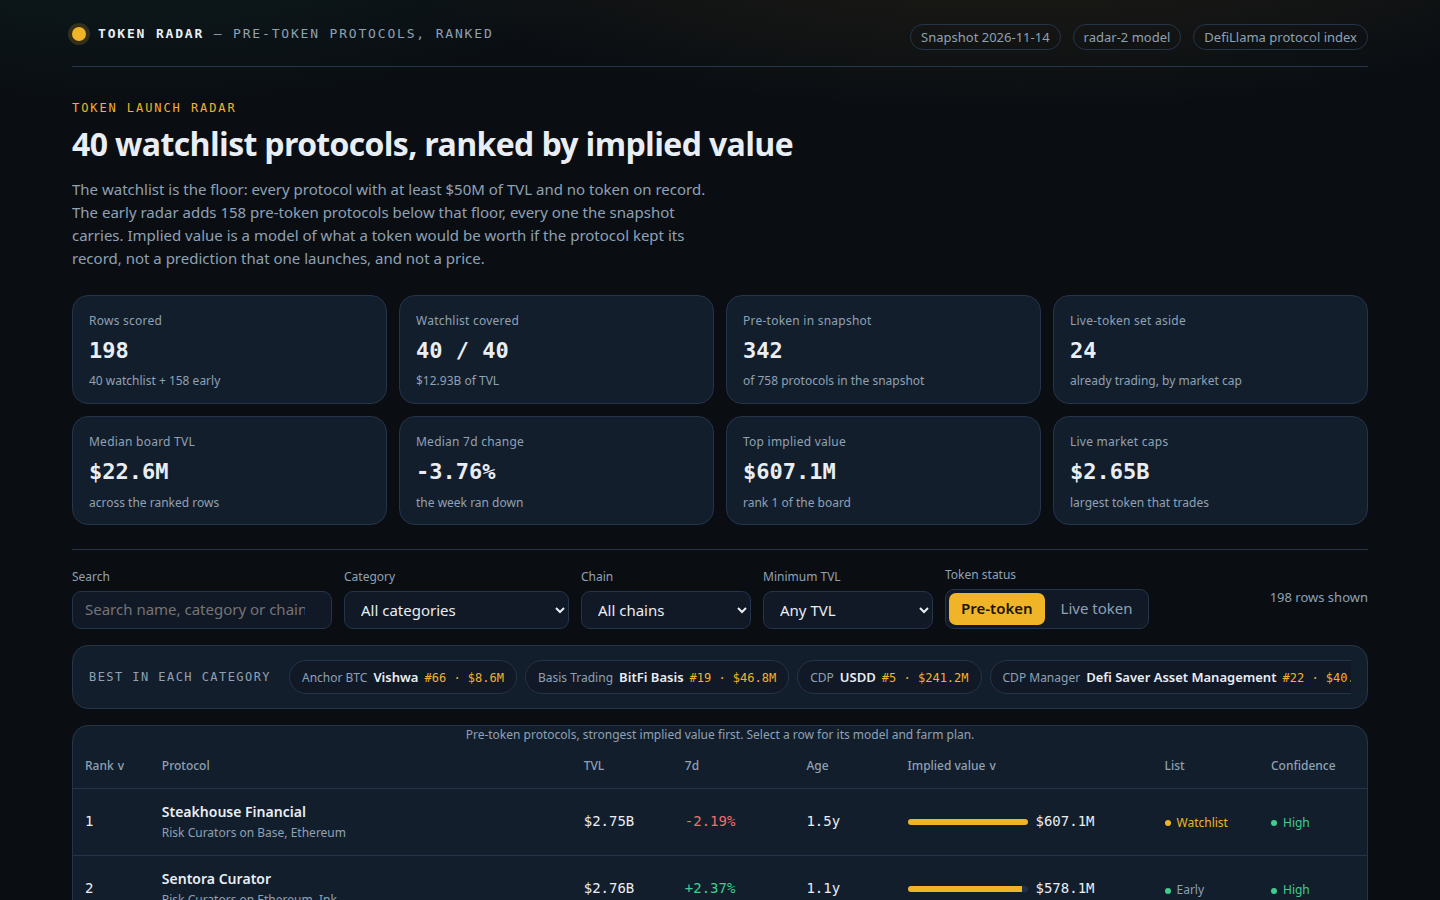
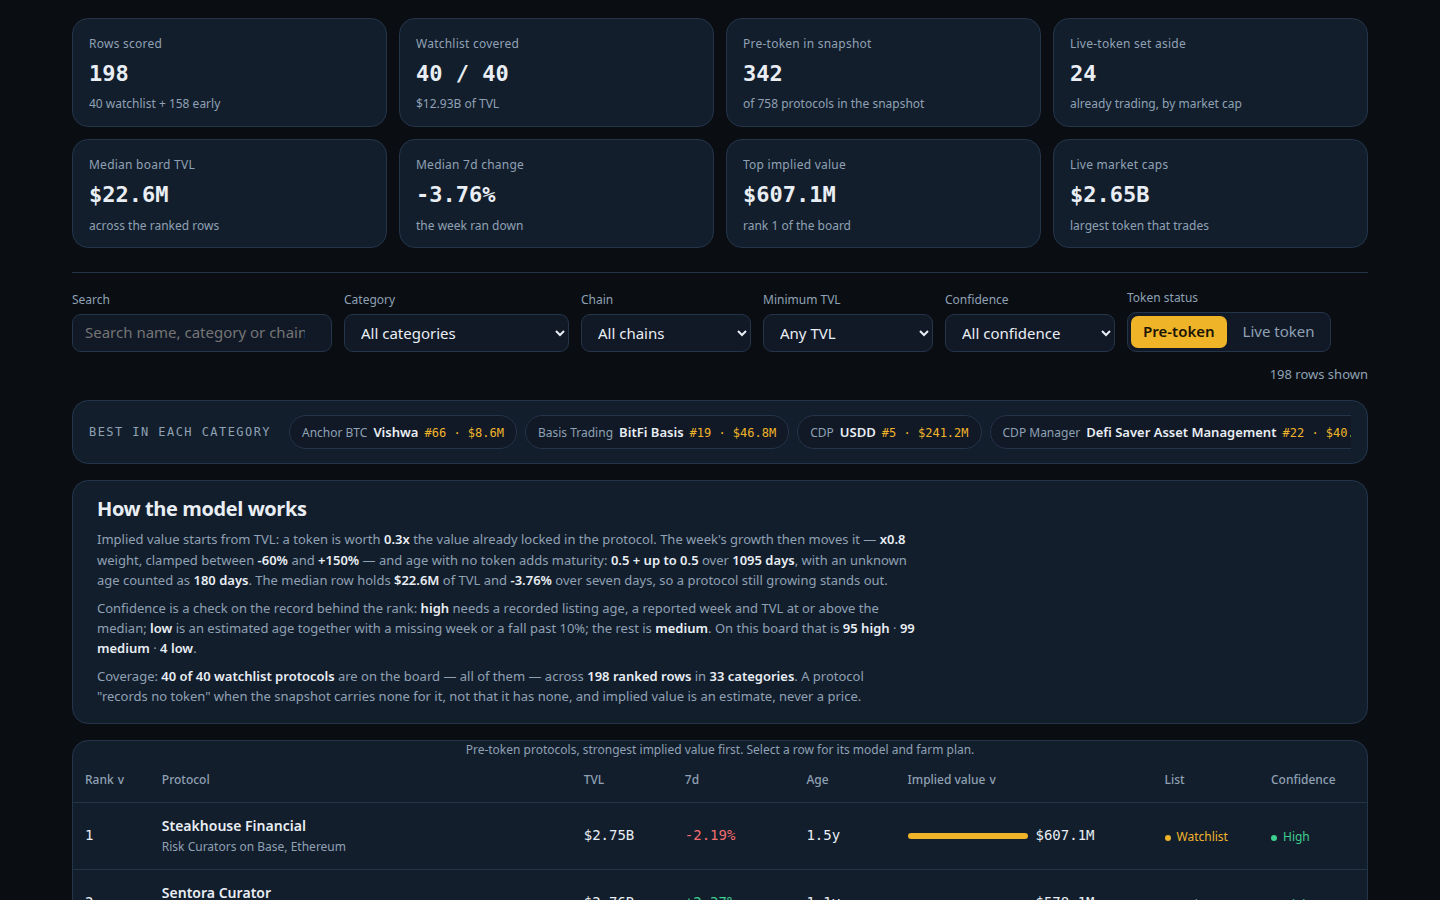
Round 4: methodology panel + plan totals + confidence filter/sort (dashboard-only, board unchanged)

diff --git a/dashboard/app.js b/dashboard/app.js
@@ -202,13 +202,55 @@ function farmSteps(p) {
   return steps.map(stepText);
 }
 
+/** One step's gas in dollars, read from the Cost: tail the drawer already renders:
+    "under $X" counts as X, "$X to $Y" as Y, "a few cents" as $0.05, "a few dollars"
+    as $3; a step with no gas figure (capital held, no fee to check) counts as $0. */
+function gasFigure(cost) {
+  var m = /under \$([\d.]+)/.exec(cost);
+  if (m) return Number(m[1]);
+  m = /\$([\d.]+) to \$([\d.]+)/.exec(cost);
+  if (m) return Number(m[2]);
+  if (/a few cents/.test(cost)) return 0.05;
+  if (/a few dollars/.test(cost)) return 3;
+  return 0;
+}
+function fmtGas(n) { return '$' + (n % 1 === 0 ? String(n) : n.toFixed(2)); }
+/** A plan's totals, parsed from its own step strings, so the drawer can summarise the
+    plan it already shows. One-off gas is the sum of the steps' gas figures; the weekly
+    action is kept apart because it recurs. Time is the hold step's whole-plan effort
+    ("about X hours of activity spread over Y days"), which already counts setup, the
+    weekly actions and the claim check, so the per-step minutes are not added on top. */
+function planTotals(steps) {
+  var gas = 0, weeklyGas = 0, hours = null, days = null;
+  steps.forEach(function (s) {
+    var at = s.indexOf(' Cost: ');
+    var rest = at >= 0 ? s.slice(at + 7) : '';
+    var tat = rest.indexOf(' Time: ');
+    var cost = tat >= 0 ? rest.slice(0, tat) : rest;
+    var time = tat >= 0 ? rest.slice(tat + 7).replace(/\.$/, '') : '';
+    var g = gasFigure(cost);
+    if (/each weekly action/.test(cost)) weeklyGas += g;
+    else gas += g;
+    var hm = /about ([\d.]+) hours? of activity spread over (\d+) days/.exec(time);
+    if (hm) { hours = Number(hm[1]); days = Number(hm[2]); }
+  });
+  return { gas: gas, weeklyGas: weeklyGas, hours: hours, days: days };
+}
+function planTotalText(steps) {
+  var t = planTotals(steps);
+  var out = 'Plan total: about ' + fmtGas(t.gas) + ' in gas';
+  if (t.hours !== null) out += ' · about ' + t.hours + ' hour' + (t.hours === 1 ? '' : 's') + ' of activity' + (t.days !== null ? ' over ' + t.days + ' days' : '');
+  if (t.weeklyGas > 0) out += ' · then ' + fmtGas(t.weeklyGas) + ' per weekly action';
+  return out + '.';
+}
+
 (function () {
   'use strict';
   var DATA = (typeof window !== 'undefined' && window.RADAR) || null;
   if (!DATA || typeof document === 'undefined') return;
   var app = document.getElementById('board');
   if (!app) return;
-  var state = { q: '', category: 'all', chain: 'all', minTvl: 0, tab: 'pre-token', sort: 'implied', dir: -1, selected: null, kbIndex: -1 };
+  var state = { q: '', category: 'all', chain: 'all', minTvl: 0, confidence: 'all', tab: 'pre-token', sort: 'implied', dir: -1, selected: null, kbIndex: -1 };
 
   function el(tag, attrs) {
     var node = document.createElement(tag);
@@ -239,6 +281,7 @@ function farmSteps(p) {
     if (params.get('category')) state.category = params.get('category');
     if (params.get('chain')) state.chain = params.get('chain');
     if (params.get('mintvl')) state.minTvl = Number(params.get('mintvl')) || 0;
+    if (params.get('conf')) state.confidence = params.get('conf');
     if (params.get('tab')) state.tab = params.get('tab');
     if (params.get('p')) state.selected = params.get('p');
   }
@@ -248,6 +291,7 @@ function farmSteps(p) {
     if (state.category !== 'all') params.set('category', state.category);
     if (state.chain !== 'all') params.set('chain', state.chain);
     if (state.minTvl) params.set('mintvl', String(state.minTvl));
+    if (state.confidence !== 'all') params.set('conf', state.confidence);
     if (state.tab !== 'pre-token') params.set('tab', state.tab);
     if (state.selected) params.set('p', state.selected);
     var next = params.toString();
@@ -261,6 +305,7 @@ function farmSteps(p) {
       if (state.category !== 'all' && (r.category || 'Other') !== state.category) return false;
       if (state.chain !== 'all' && (r.chains || []).indexOf(state.chain) < 0) return false;
       if (state.minTvl && r.tvl_usd < state.minTvl) return false;
+      if (state.confidence !== 'all' && confidenceOf(r, DATA.median_tvl_usd) !== state.confidence) return false;
       if (!q) return true;
       var hay = [r.name, r.slug, r.category, (r.chains || []).join(' ')].join(' ').toLowerCase();
       return hay.indexOf(q) >= 0;
@@ -274,6 +319,7 @@ function farmSteps(p) {
       else if (key === 'tvl') { av = a.tvl_usd; bv = b.tvl_usd; }
       else if (key === 'growth') { av = a.change_7d === null ? -Infinity : a.change_7d; bv = b.change_7d === null ? -Infinity : b.change_7d; }
       else if (key === 'age') { av = a.age_days === null ? Infinity : a.age_days; bv = b.age_days === null ? Infinity : b.age_days; }
+      else if (key === 'confidence') { var confRank = { high: 3, medium: 2, low: 1 }; av = confRank[confidenceOf(a, DATA.median_tvl_usd)] || 0; bv = confRank[confidenceOf(b, DATA.median_tvl_usd)] || 0; }
       else { av = a.implied_value_usd; bv = b.implied_value_usd; }
       if (av < bv) return -state.dir;
       if (av > bv) return state.dir;
@@ -343,6 +389,13 @@ function farmSteps(p) {
       tvlOptions.map(function (o) { return el('option', { value: String(o[0]), text: o[1], selected: o[0] === state.minTvl ? 'selected' : null }); })
     );
     mintvl.addEventListener('change', function () { state.minTvl = Number(mintvl.value) || 0; writeHash(); render(); });
+    var confCounts = { high: 0, medium: 0, low: 0 };
+    DATA.rows.forEach(function (r) { confCounts[confidenceOf(r, DATA.median_tvl_usd)] += 1; });
+    var confOptions = [['all', 'All confidence'], ['high', 'High (' + confCounts.high + ')'], ['medium', 'Medium (' + confCounts.medium + ')'], ['low', 'Low (' + confCounts.low + ')']];
+    var conf = el('select', { id: 'confidence', 'aria-label': 'Filter by confidence' },
+      confOptions.map(function (o) { return el('option', { value: o[0], text: o[1], selected: o[0] === state.confidence ? 'selected' : null }); })
+    );
+    conf.addEventListener('change', function () { state.confidence = conf.value; writeHash(); render(); });
     var pre = el('button', { type: 'button', 'aria-pressed': state.tab === 'pre-token' ? 'true' : 'false', text: 'Pre-token', onclick: function () { state.tab = 'pre-token'; render(); } });
     var live = el('button', { type: 'button', 'aria-pressed': state.tab === 'live' ? 'true' : 'false', text: 'Live token', onclick: function () { state.tab = 'live'; render(); } });
     return el('div', { class: 'controls' },
@@ -350,6 +403,7 @@ function farmSteps(p) {
       el('div', { class: 'field' }, el('label', { for: 'category', text: 'Category' }), cat),
       el('div', { class: 'field' }, el('label', { for: 'chain', text: 'Chain' }), chain),
       el('div', { class: 'field' }, el('label', { for: 'mintvl', text: 'Minimum TVL' }), mintvl),
+      el('div', { class: 'field' }, el('label', { for: 'confidence', text: 'Confidence' }), conf),
       el('div', { class: 'field' }, el('span', { class: 'sub', text: 'Token status' }), el('div', { class: 'tabs' }, pre, live)),
       el('span', { class: 'count', text: state.tab === 'pre-token' ? rows().length + ' rows shown' : DATA.live.length + ' live-token protocols' })
     );
@@ -371,7 +425,7 @@ function farmSteps(p) {
       return el('div', { class: 'panel' }, el('div', { class: 'empty' },
         el('h2', { text: 'No protocol matches that filter' }),
         el('p', { text: 'Clear the search or pick another category to see the board again.' }),
-        el('button', { class: 'button primary', type: 'button', text: 'Clear filters', onclick: function () { state.q = ''; state.category = 'all'; state.chain = 'all'; state.minTvl = 0; writeHash(); render(); } })
+        el('button', { class: 'button primary', type: 'button', text: 'Clear filters', onclick: function () { state.q = ''; state.category = 'all'; state.chain = 'all'; state.minTvl = 0; state.confidence = 'all'; writeHash(); render(); } })
       ));
     }
     var max = DATA.top_implied_usd || 1;
@@ -415,7 +469,7 @@ function farmSteps(p) {
             sortHeader('age', 'Age'),
             sortHeader('implied', 'Implied value'),
             el('th', { scope: 'col', text: 'List' }),
-            el('th', { scope: 'col', text: 'Confidence' })
+            sortHeader('confidence', 'Confidence')
           )),
           tbody
         )
@@ -470,6 +524,38 @@ function farmSteps(p) {
     );
   }
 
+  /** How the model works, in plain words and with the board's own numbers: the formula
+      the model panel below spells out, the confidence rule, and what the board covers.
+      Every figure here is computed from the loaded data when the page renders, so the
+      panel stays true if the snapshot changes. */
+  function methodPanel() {
+    var m = DATA.model;
+    var confCounts = { high: 0, medium: 0, low: 0 };
+    DATA.rows.forEach(function (r) { confCounts[confidenceOf(r, DATA.median_tvl_usd)] += 1; });
+    var watchlistPresent = DATA.rows.filter(function (r) { return r.watchlist; }).length;
+    var categories = Array.from(new Set(DATA.rows.map(function (r) { return r.category || 'Other'; }))).length;
+    return el('section', { class: 'panel method', 'aria-label': 'How the model works' },
+      el('h2', { text: 'How the model works' }),
+      el('p', null,
+        'Implied value starts from TVL: a token is worth ', el('b', { text: m.base_multiple + 'x' }), ' the value already locked in the protocol. ',
+        'The week\'s growth then moves it — ', el('b', { text: 'x' + m.growth_weight }), ' weight, clamped between ', el('b', { text: m.growth_floor + '%' }), ' and ', el('b', { text: '+' + m.growth_cap + '%' }), ' — ',
+        'and age with no token adds maturity: ', el('b', { text: m.maturity_floor + ' + up to ' + m.maturity_range }), ' over ', el('b', { text: m.maturity_days + ' days' }), ', ',
+        'with an unknown age counted as ', el('b', { text: m.unknown_age_days + ' days' }), '. ',
+        'The median row holds ', el('b', { text: fmtUsd(DATA.median_tvl_usd) }), ' of TVL and ', el('b', { text: fmtPct(DATA.median_change_7d) }), ' over seven days, so a protocol still growing stands out.'
+      ),
+      el('p', null,
+        'Confidence is a check on the record behind the rank: ', el('b', { text: 'high' }), ' needs a recorded listing age, a reported week and TVL at or above the median; ',
+        el('b', { text: 'low' }), ' is an estimated age together with a missing week or a fall past 10%; the rest is ', el('b', { text: 'medium' }), '. ',
+        'On this board that is ', el('b', { text: confCounts.high + ' high' }), ' · ', el('b', { text: confCounts.medium + ' medium' }), ' · ', el('b', { text: confCounts.low + ' low' }), '.'
+      ),
+      el('p', null,
+        'Coverage: ', el('b', { text: watchlistPresent + ' of ' + DATA.watchlist_size + ' watchlist protocols' }), ' are on the board — all of them — ',
+        'across ', el('b', { text: DATA.board_size + ' ranked rows' }), ' in ', el('b', { text: categories + ' categories' }), '. ',
+        'A protocol "records no token" when the snapshot carries none for it, not that it has none, and implied value is an estimate, never a price.'
+      )
+    );
+  }
+
   function modelPanel() {
     var m = DATA.model;
     var top = DATA.rows[0];
@@ -481,7 +567,7 @@ function farmSteps(p) {
       ),
       el('div', { class: 'model-grid' },
         el('div', { class: 'model-cell' }, el('b', { text: 'TVL is the anchor' }), el('span', { text: 'A token scales with the value already locked in the protocol, so the largest pre-token pools head the board.' })),
-        el('div', { class: 'model-cell' }, el('b', { text: 'Growth moves ranks' }), el('span', { text: 'The median protocol lost 8.2% of TVL in the week, so one still growing stands out; a single hot week cannot buy the top.' })),
+        el('div', { class: 'model-cell' }, el('b', { text: 'Growth moves ranks' }), el('span', { text: 'The median protocol changed ' + fmtPct(DATA.median_change_7d) + ' of TVL in the week, so one still growing stands out; a single hot week cannot buy the top.' })),
         el('div', { class: 'model-cell' }, el('b', { text: 'Age is the record' }), el('span', { text: 'Age is the time since first listing, the best record of how long a protocol has run with no token; an unknown age counts as ' + m.unknown_age_days + ' days.' }))
       ),
       top ? el('p', { class: 'sub', text: 'Worked example, rank 1: ' + top.name + ' holds ' + fmtUsd(top.tvl_usd) + ' of TVL, ' + fmtPct(top.change_7d) + ' over seven days, ' + fmtAge(top.age_days) + ' with no token on record, so the model reads ' + fmtUsd(top.implied_value_usd) + '.' }) : null,
@@ -532,6 +618,7 @@ function farmSteps(p) {
     ));
     dialog.appendChild(el('section', { class: 'detail-section' },
       el('h3', { text: 'Farm plan' }),
+      el('p', { class: 'plan-total', text: planTotalText(steps) }),
       el('ol', { class: 'steps' }, steps.map(function (s) {
         var at = s.indexOf(' Cost: ');
         var action = at >= 0 ? s.slice(0, at) : s;
@@ -561,6 +648,7 @@ function farmSteps(p) {
     shell.appendChild(tiles());
     shell.appendChild(controls());
     if (state.tab === 'pre-token') shell.appendChild(bestStrip());
+    if (state.tab === 'pre-token') shell.appendChild(methodPanel());
     shell.appendChild(state.tab === 'pre-token' ? boardTable() : liveTable());
     if (state.tab === 'pre-token') shell.appendChild(modelPanel());
     shell.appendChild(el('p', { class: 'footnote', text: 'Source: ' + DATA.source + '. Snapshot as of ' + DATA.as_of + '. Implied values are the radar-2 model, computed from the snapshot alone.' }));

diff --git a/dashboard/app.css b/dashboard/app.css
@@ -125,6 +125,12 @@ tbody tr.kb-selected { background: rgba(240, 180, 41, 0.14); outline: 2px solid 
 .best-item b { font-weight: 600; }
 .best-item .num { color: var(--accent); font-size: 12px; }
 
+/* How the model works: one short panel above the table, three plain-words paragraphs,
+   so the board's method is visible before the first row, not only below the table. */
+.method { margin-bottom: var(--s4); padding: var(--s4) var(--s5); display: grid; gap: var(--s2); }
+.method p { color: var(--muted); font-size: 13px; max-width: 110ch; }
+.method p b { color: var(--ink); font-weight: 600; }
+
 .model { margin-top: var(--s4); padding: var(--s5); display: grid; gap: var(--s3); }
 .formula { font-family: var(--font-num); font-size: 13px; line-height: 1.7; color: var(--muted); overflow-wrap: anywhere; background: var(--canvas); border: 1px solid var(--border); border-radius: var(--radius-control); padding: var(--s3) var(--s4); }
 .model-grid { display: grid; grid-template-columns: repeat(3, minmax(0, 1fr)); gap: var(--s3); }
@@ -159,6 +165,7 @@ tbody tr.kb-selected { background: rgba(240, 180, 41, 0.14); outline: 2px solid 
 .equation div { display: flex; justify-content: space-between; gap: var(--s3); }
 .equation span { color: var(--muted); }
 .steps { margin: 0; padding-left: var(--s5); display: grid; gap: var(--s3); }
+.plan-total { font-family: var(--font-num); font-size: 13px; line-height: 1.6; background: var(--surface-2); border: 1px solid var(--border); border-left: 3px solid var(--accent); border-radius: var(--radius-control); padding: var(--s2) var(--s3); margin-bottom: var(--s3); }
 .steps li { padding-left: var(--s1); }
 .steps li::marker { color: var(--accent); font-family: var(--font-num); }
 .steps b { display: block; font-weight: 500; }
